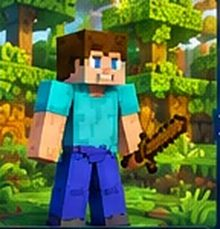
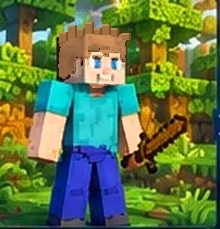
Block Craft level 1: paler skin, messier light brown hair, bluer eyes
Claude-Session: https://claude.ai/code/session_01An3A6VMrjvgYsGpVKdisk6

Changed region(s): [[0.2455, 0.0917, 0.6, 0.3974], [0.1091, 0.4891, 0.3, 0.7031], [0.5455, 0.4891, 0.6545, 0.6725]]

diff --git a/CHANGELOG.md b/CHANGELOG.md
@@ -7,7 +7,7 @@ for that version.
 
 ## 0.20.2 — 2026-11-18
 
-- **Block Craft's avatar pictures are back.** The owner's nine uploaded pictures are used again for the nine forms, and the rings round the avatar use their colours again. Everything else from 0.20.1 stays: the new names, the theme picker lines, the battle scenes and the arcade changes.
+- **Block Craft's avatar pictures are back.** The owner's nine uploaded pictures are used again for the nine forms, and the rings round the avatar use their colours again. The level 1 hero has paler skin, messier light brown hair and brighter blue eyes. Everything else from 0.20.1 stays: the new names, the theme picker lines, the battle scenes and the arcade changes.
 
 ## 0.20.1 — 2026-11-18
 
